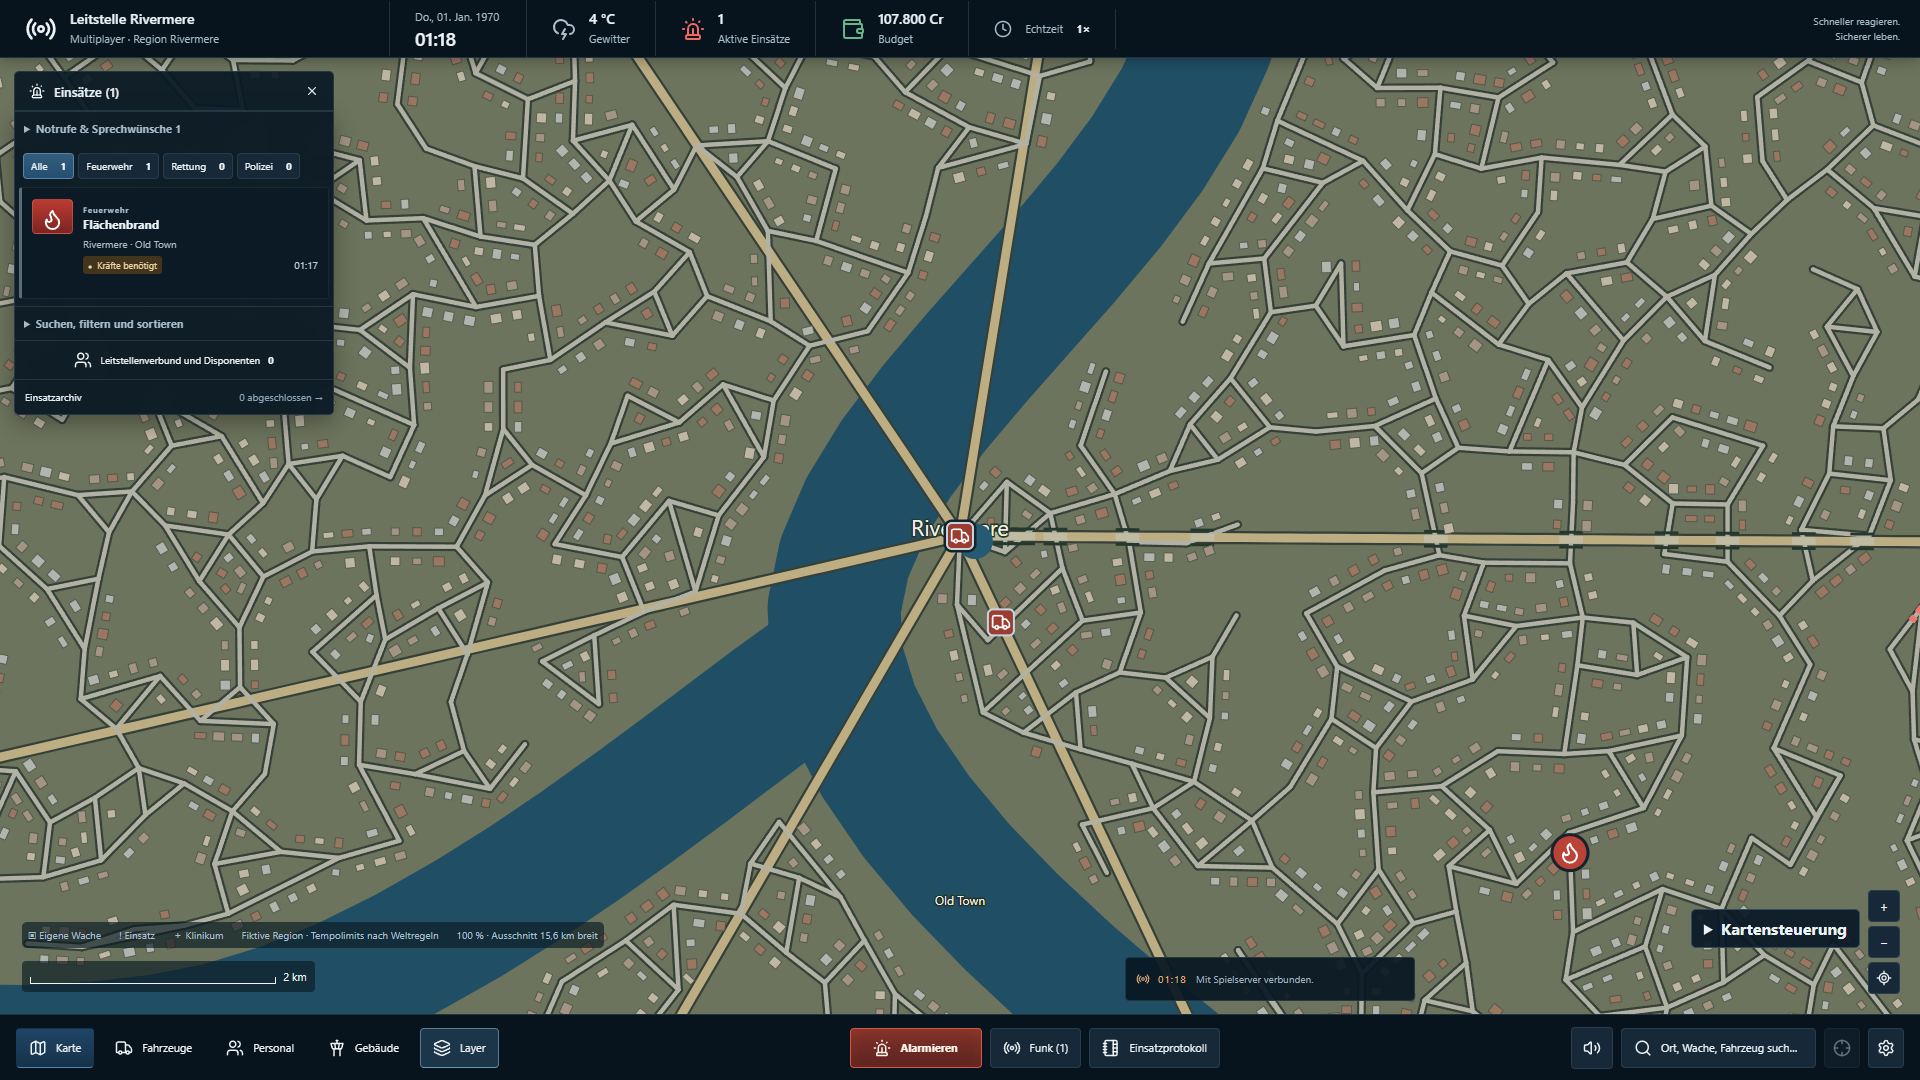
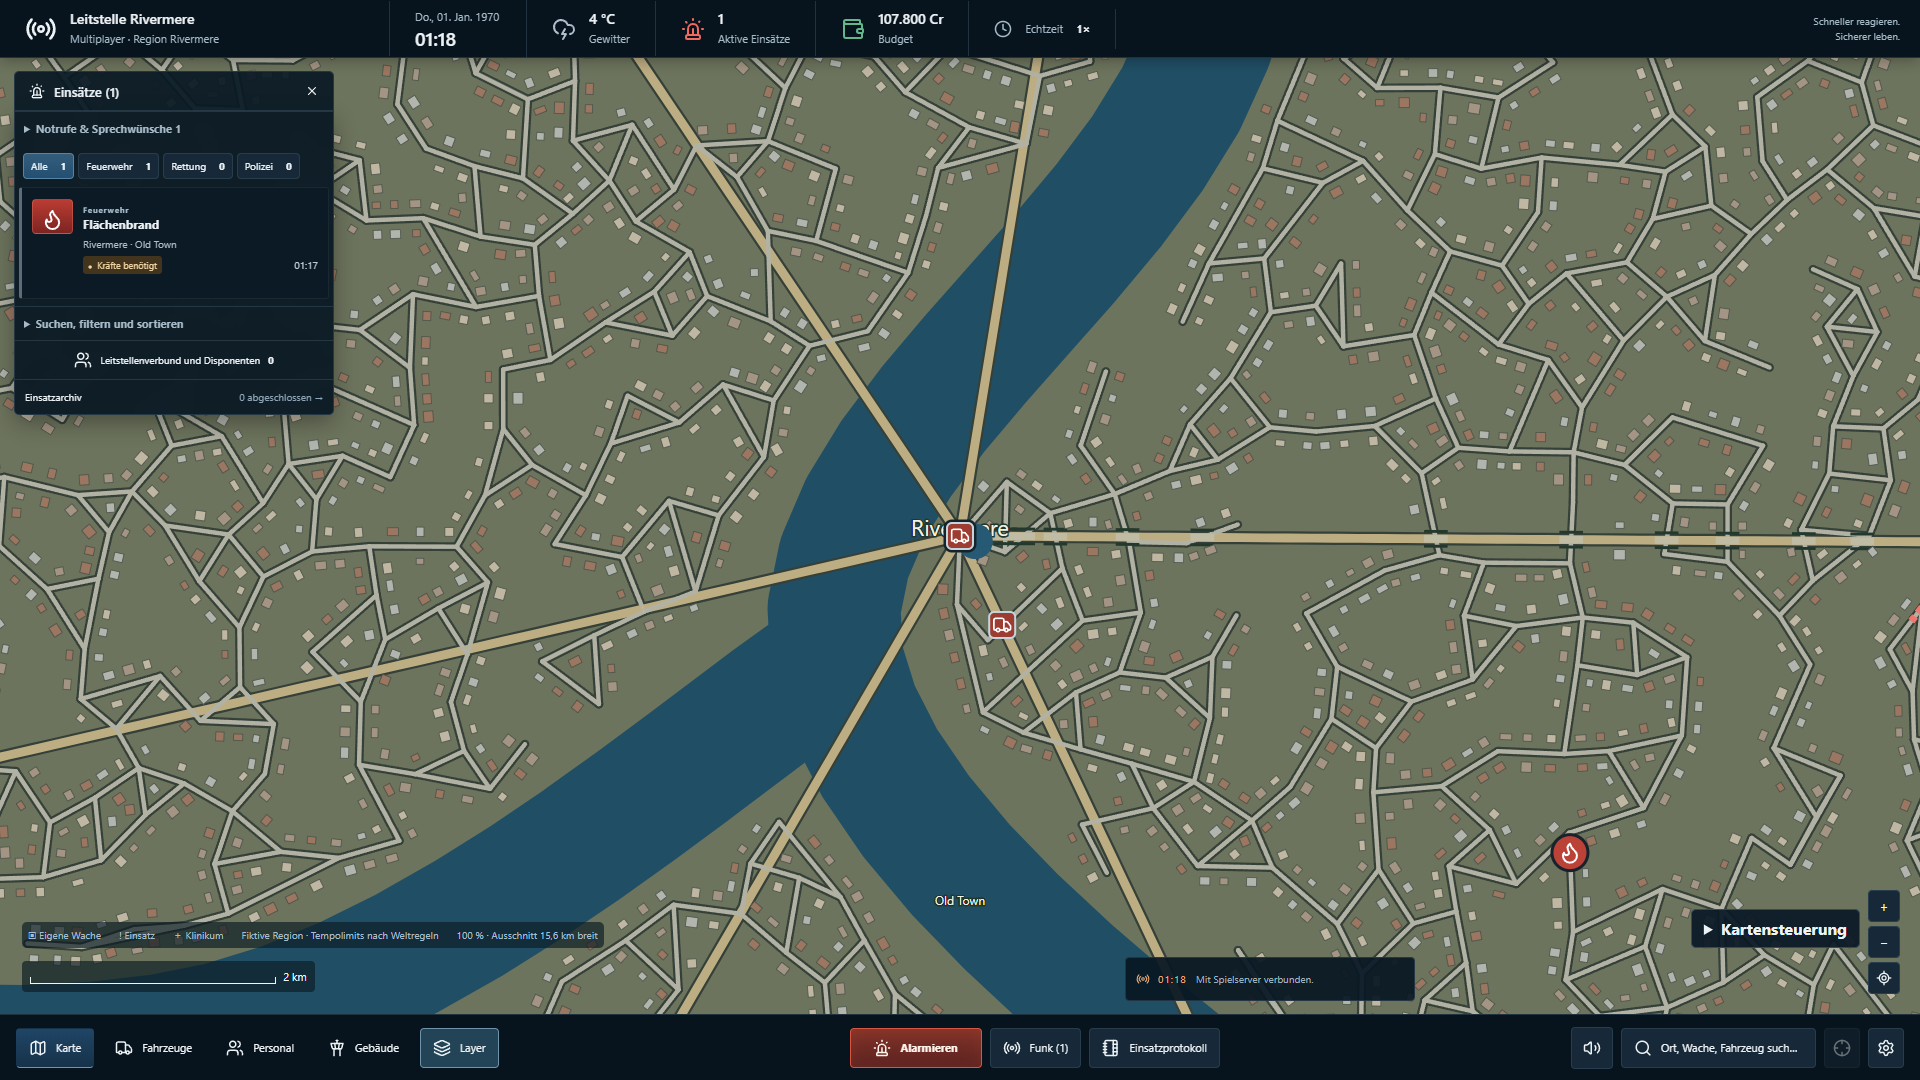
fix(world): populate short village streets and isolate deterministic setup (#26)

diff --git a/tests/rivermere.test.ts b/tests/rivermere.test.ts
@@ -7,7 +7,7 @@ import { pathToFileURL } from "node:url";
 import { createHash } from "node:crypto";
 import { Database } from "../server/database";
 import type * as Fixture from "./rivermere-fixture";
-let f: typeof Fixture;
+let f: typeof Fixture, repeated: typeof Fixture;
 beforeAll(async () => {
   mkdirSync(".tools", { recursive: true });
   const outfile = resolve(`.tools/rivermere-unit-${process.pid}.mjs`);
@@ -21,6 +21,21 @@ beforeAll(async () => {
     define: { __LV_WORLD__: JSON.stringify("rivermere-1") },
   });
   f = await import(pathToFileURL(outfile).href);
+}, 20000);
+// Rebuilding and generating the whole region is fixture setup, not a small
+// five-second assertion. Run it once with the same bounded setup allowance.
+beforeAll(async () => {
+  const outfile = resolve(`.tools/rivermere-repeat-${process.pid}.mjs`);
+  await build({
+    entryPoints: ["tests/rivermere-fixture.ts"],
+    outfile,
+    bundle: true,
+    platform: "node",
+    format: "esm",
+    packages: "external",
+    define: { __LV_WORLD__: JSON.stringify("rivermere-1") },
+  });
+  repeated = await import(pathToFileURL(outfile).href);
 }, 20000);
 describe("Rivermere als eigenständige Serverwelt", () => {
   it("hat metrische 100 km, zentrale Großstadt und dieselben sichtbaren Routenabschnitte", () => {
@@ -91,22 +106,11 @@ describe("Rivermere als eigenständige Serverwelt", () => {
       expect(f.buildReason(s, "water", dock)).toBe("");
     }
   });
-  it("lässt sich deterministisch erneut erzeugen und lehnt fremde Spielstände ab", async () => {
-    const outfile = resolve(`.tools/rivermere-repeat-${process.pid}.mjs`);
-    await build({
-      entryPoints: ["tests/rivermere-fixture.ts"],
-      outfile,
-      bundle: true,
-      platform: "node",
-      format: "esm",
-      packages: "external",
-      define: { __LV_WORLD__: JSON.stringify("rivermere-1") },
-    });
-    const other = (await import(pathToFileURL(outfile).href)) as typeof Fixture;
+  it("lässt sich deterministisch erneut erzeugen und lehnt fremde Spielstände ab", () => {
     const hash = (v: unknown) =>
       createHash("sha256").update(JSON.stringify(v)).digest("hex");
-    expect(hash(other.nodes)).toBe(hash(f.nodes));
-    expect(hash(other.roadSections)).toBe(hash(f.roadSections));
+    expect(hash(repeated.nodes)).toBe(hash(f.nodes));
+    expect(hash(repeated.roadSections)).toBe(hash(f.roadSections));
     const s = f.phaseFixture("11111111-2222-4333-8444-555555555555");
     expect(f.validate(structuredClone(s)).world).toBe("rivermere-1");
     expect(() => f.validate({ ...s, world: "falkenried-2" })).toThrow();

diff --git a/src/rivermere/Terrain.tsx b/src/rivermere/Terrain.tsx
@@ -29,16 +29,18 @@ const houses = new SpatialIndex<Footprint>();
 export const footprints: Footprint[] = [];
 for (const [ri, road] of (IS_RIVERMERE ? roads : []).entries()) {
   const ruralRoad = road.kind === "country";
+  let nextHouse = ruralRoad ? 90 : 5;
   for (let i = 1; i < road.points.length; i++) {
     const a = road.points[i - 1],
       b = road.points[i],
       len = distance(a, b),
       angle = Math.atan2(b.y - a.y, b.x - a.x);
     for (
-      let d = ruralRoad ? 90 : 12;
-      d < len;
-      d += ruralRoad ? 180 + random() * 220 : 12 + random() * 8
-    )
+      ;
+      nextHouse < len;
+      nextHouse += ruralRoad ? 180 + random() * 220 : 12 + random() * 8
+    ) {
+      const d = nextHouse;
       for (const side of [-1, 1]) {
         const x = a.x + ((b.x - a.x) * d) / len - Math.sin(angle) * side * 10,
           y = a.y + ((b.y - a.y) * d) / len + Math.cos(angle) * side * 10;
@@ -63,6 +65,8 @@ for (const [ri, road] of (IS_RIVERMERE ? roads : []).entries()) {
         houses.add(h);
         footprints.push(h);
       }
+    }
+    nextHouse -= len;
   }
 }
 const overviewBlocks = Array.from({ length: 4 }, (_, tone) =>
@@ -313,6 +317,7 @@ export const Terrain = memo(function Terrain({
           .map((h) => (
             <rect
               key={h.id}
+              data-footprint={h.id}
               transform={`translate(${h.x},${h.y}) rotate(${h.angle})`}
               x={-h.width / 2}
               y={-h.height / 2}

diff --git a/tests/e2e/map-input.spec.ts b/tests/e2e/map-input.spec.ts
@@ -194,12 +194,21 @@ test("Abbruch, HUD-Grenzen, Bauvorschau und erneutes Öffnen bleiben sicher", as
   await map.dispatchEvent("pointercancel", { pointerId: 1 });
   await page.mouse.up();
   await expect(map).not.toHaveClass(/dragging/);
+  await map.evaluate((element: SVGSVGElement) => {
+    element.addEventListener(
+      "pointerdown",
+      (event) => {
+        element.dataset.testPointerId = String(event.pointerId);
+      },
+      { once: true },
+    );
+  });
   await page.mouse.move(900, 500);
   await page.mouse.down();
   await page.mouse.move(960, 540, { steps: 8 });
   await expect(map).toHaveClass(/dragging/);
   await map.evaluate((element: SVGSVGElement) =>
-    element.releasePointerCapture(1),
+    element.releasePointerCapture(Number(element.dataset.testPointerId)),
   );
   await page.mouse.move(970, 550);
   await expect(map).not.toHaveClass(/dragging/);

diff --git a/tests/e2e/rivermere.spec.ts b/tests/e2e/rivermere.spec.ts
@@ -108,6 +108,8 @@ test("Rivermere: Region, Innenstadt, Außenorte, Anfahrt und Wiederverbindung", 
       .getByRole("button", { name, exact: true })
       .click();
     await page.getByRole("button", { name: "Layer", exact: true }).click();
+    if (file === "village")
+      expect(await map.locator("[data-footprint]").count()).toBeGreaterThan(40);
     await shot(file);
     await page.getByRole("button", { name: "Layer", exact: true }).click();
   }

diff --git a/docs/KARTEN-ABNAHME.md b/docs/KARTEN-ABNAHME.md
@@ -50,7 +50,7 @@ Testrechner: Windows 11 Pro 10.0.26200, Intel Core i7-13700K (16 Kerne / 24 Thre
 
 Ein eigener Serverprozess betreibt diesen Bestand. Playwright zieht mit 100 Mausbewegungsschritten; `requestAnimationFrame` erfasst die gesamte Geste bis zum Loslassen. [Messwerte](screenshots/rivermere/chromium-performance.json) enthalten Dauer, erfasste Frames, Median, 95. Perzentil, Frames über 33 ms und SVG-Elementzahl. Trotz des Playwright-Projektnamens `chromium` identifiziert diese lokale Datei ihren tatsächlich verwendeten Browser als Edge.
 
-Abschließender Lauf: 4.380,6 ms Gestendauer, 228 erfasste Frames, Median 18,1 ms, 95. Perzentil 36,2 ms, zwölf Frames über 33 ms und 4.316 SVG-Elemente. Das entspricht über die Geste ungefähr 52 erfassten Frames pro Sekunde. Die Zielmarke von durchgehend 60 fps wurde in diesem Lastlauf nicht erreicht. Andere Probeläufe lagen bei einem Median von 12,1 ms und einem 95. Perzentil von 24,3 ms; diese günstigeren Werte ersetzen nicht den abschließenden Messdatensatz.
+Abschließender Lauf nach Korrektur der Bebauung an kurzen Straßenabschnitten: 5.922,5 ms Gestendauer, 288 erfasste Frames, Median 12,2 ms, 95. Perzentil 30,4 ms, zehn Frames über 33 ms und 4.496 SVG-Elemente. Das entspricht über die Geste ungefähr 49 erfassten Frames pro Sekunde. Die Zielmarke von durchgehend 60 fps wurde in diesem Lastlauf nicht erreicht. Andere Probeläufe lagen bei einem Median von 12,1 ms und einem 95. Perzentil von 24,3 ms; diese günstigeren Werte ersetzen nicht den abschließenden Messdatensatz.
 
 Eine frühe Probe mit nur einem kurzen Messfenster bildete nicht die ganze Geste ab und wird nicht als Leistungsnachweis verwendet. Die endgültige Messung ist keine universelle 60-fps-Zusage und kein isolierter Benchmark ausschließlich des Renderers: Browserautomation, Simulation, Betriebssystem und Bildwiederholrate beeinflussen das Ergebnis.
 
